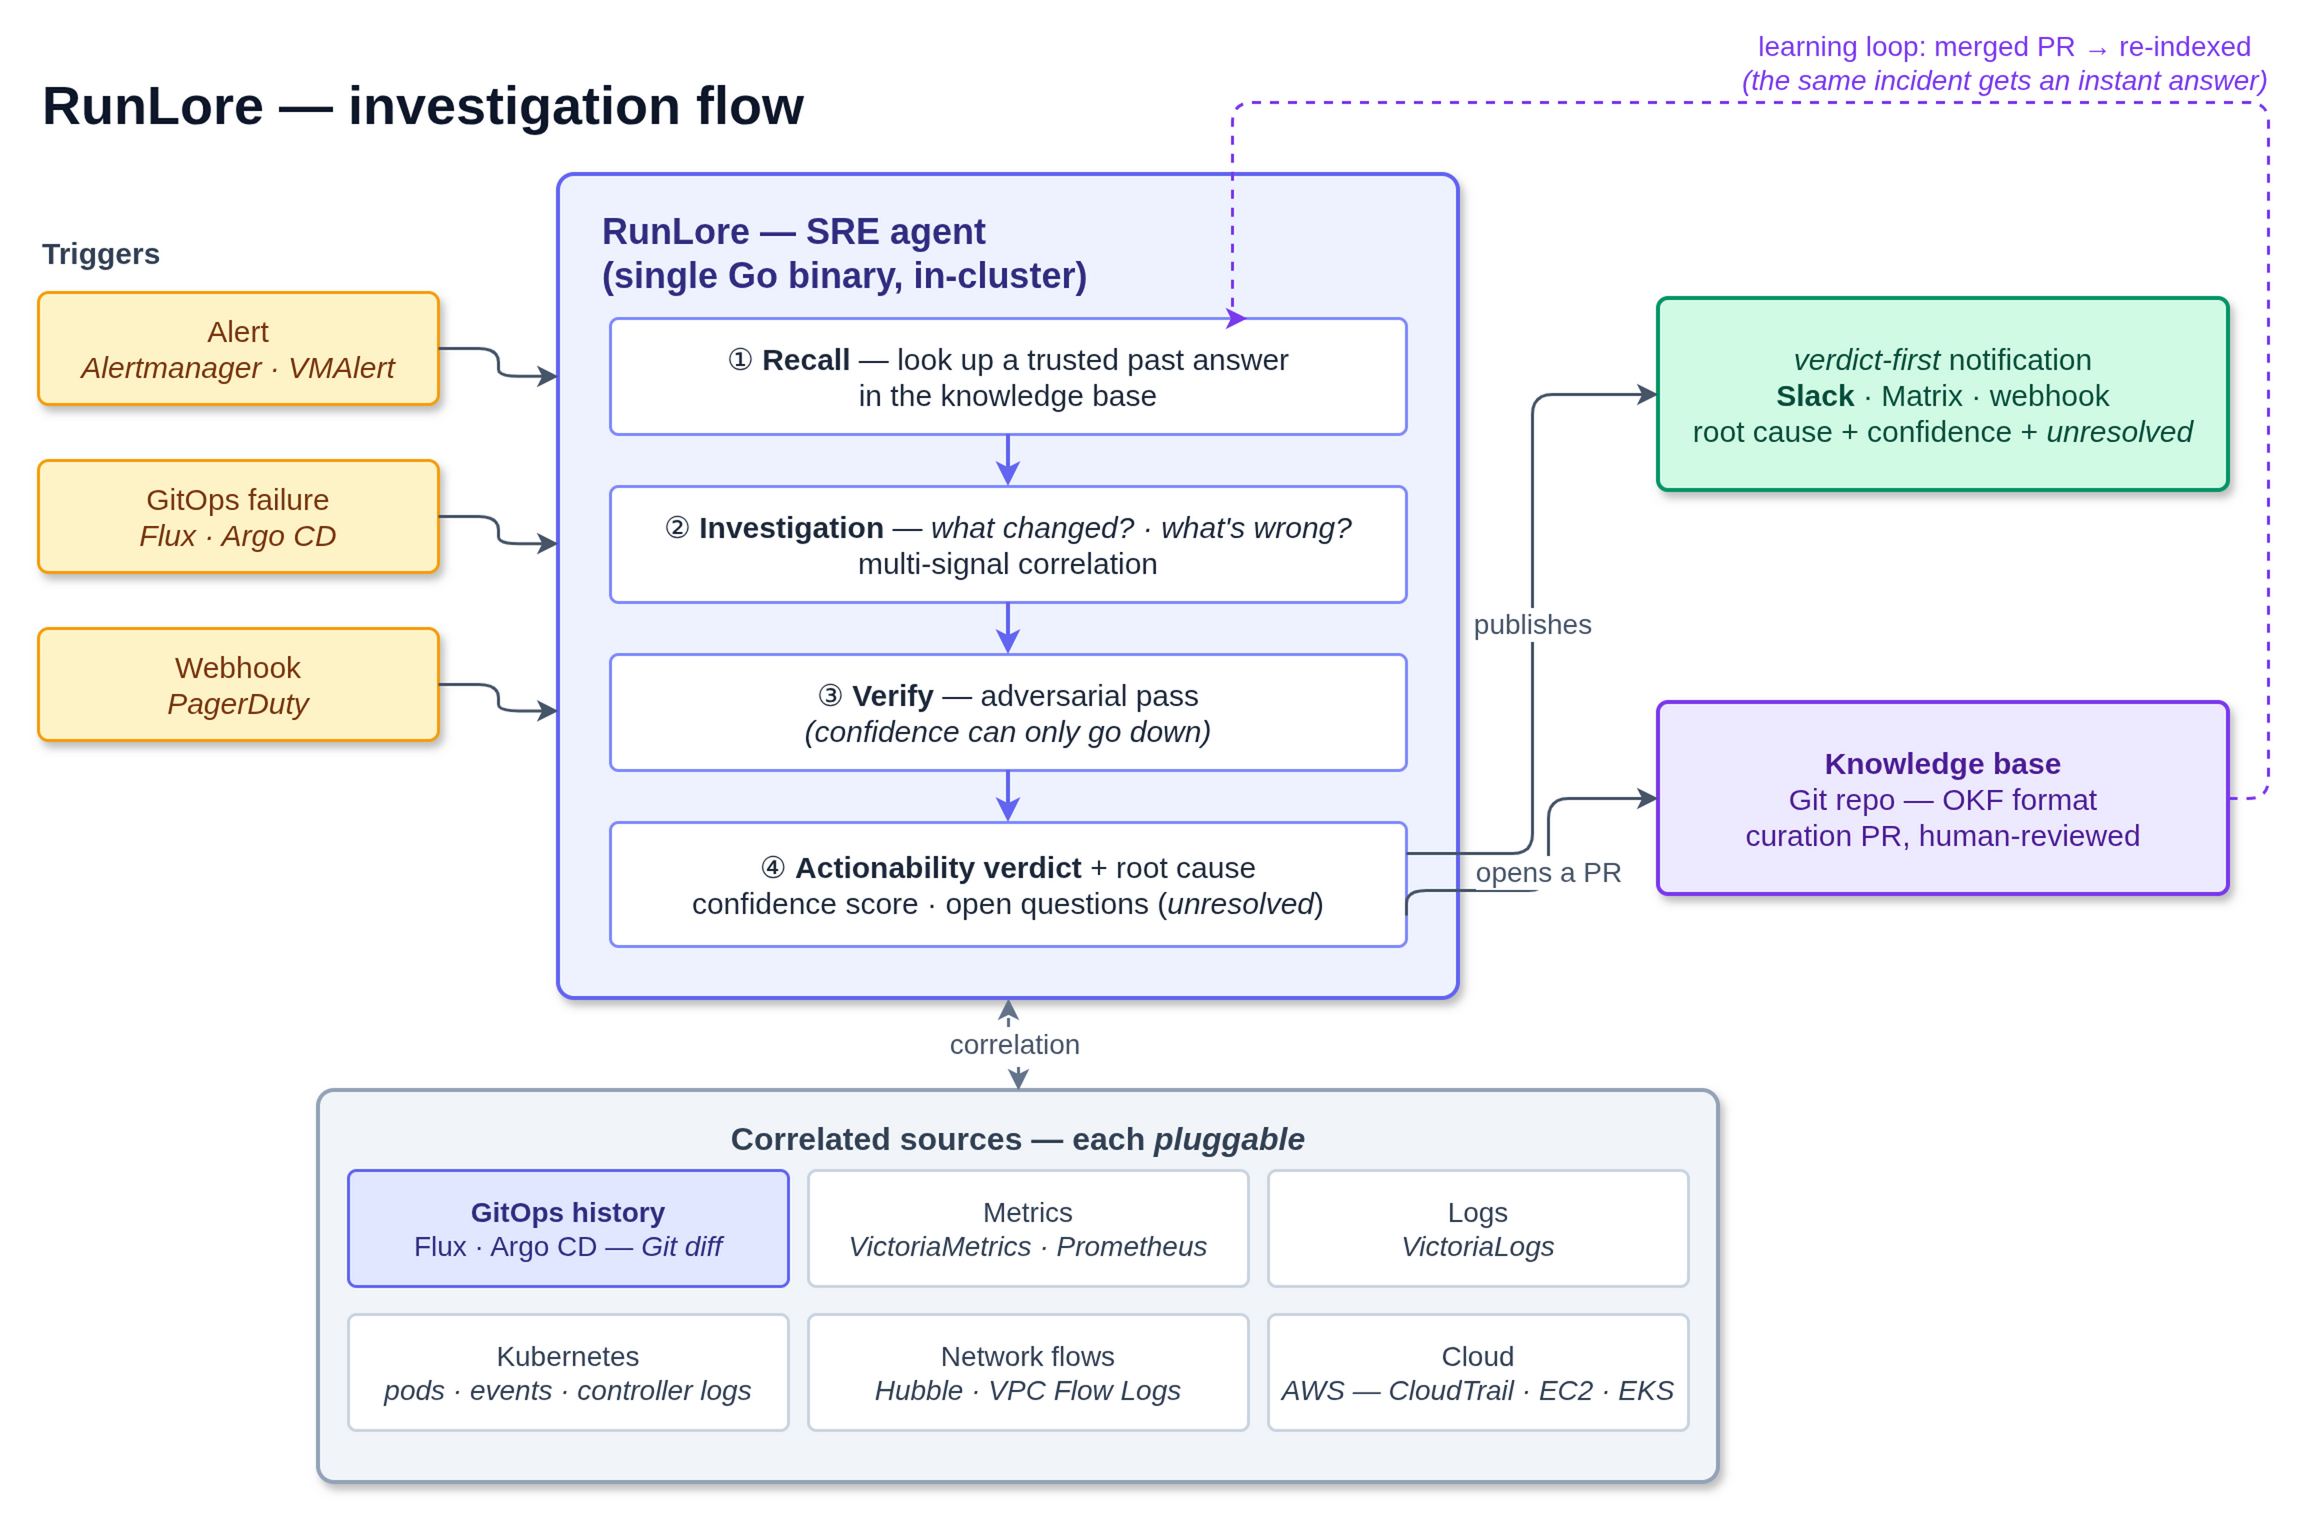
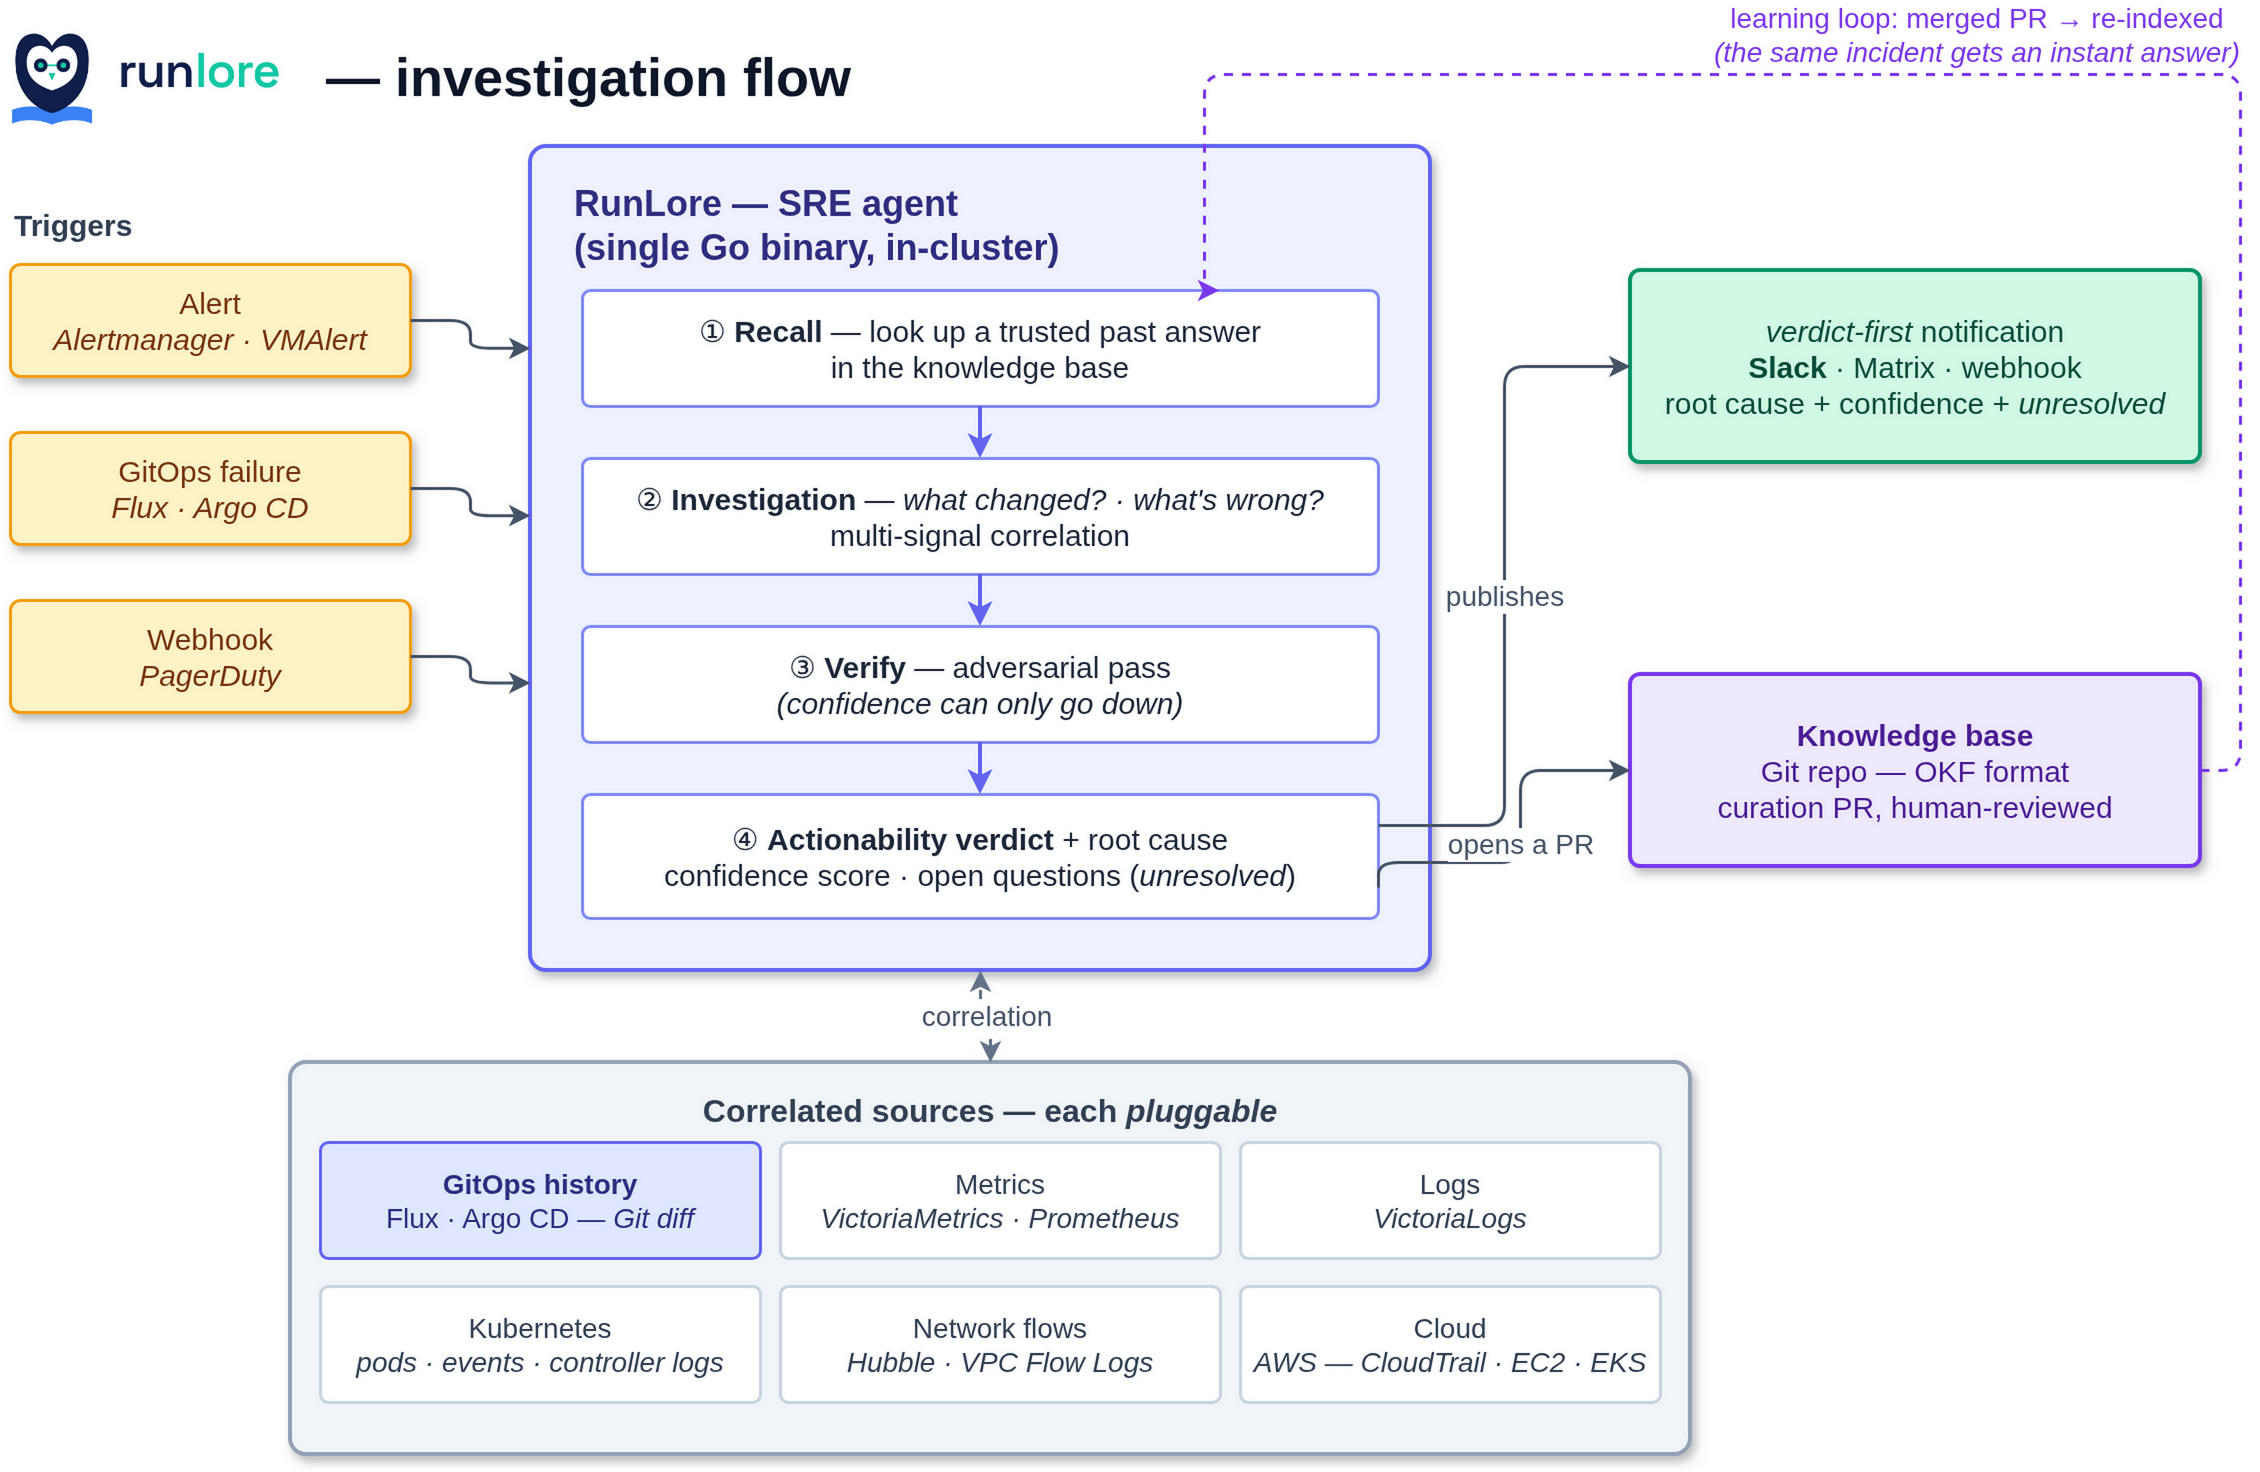
docs(blog): RunLore post — learning-loop diagram, human-in-the-loop pillar, branding, repo sync
- Add the learning-loop diagram: recall hit → instant answer vs miss → the
  four-stage loop (Retrieve/Capture/Curate/Compound) feeding the owned catalog
- Reframe the 3rd design pillar from "honesty" to human-in-the-loop, anchored on
  human-curated knowledge; keep the calibration/eval mechanisms as supporting cast
- Rewrite the 👍/👎 feedback explanation for clarity (impact + consequence)
- Brand the diagrams with the runlore wordmark in titles + logo badge in the body
- Sync claims to the current repo: model claude-sonnet-5, HolmesGPT org URL,
  feedback buttons are opt-in (Slack/Matrix), add OpenSRE to the alternatives table

diff --git a/content/fr/post/series/observability/runlore/index.md b/content/fr/post/series/observability/runlore/index.md
@@ -37,7 +37,7 @@ Cet article en présente les idées et un premier exemple concret.
 
 * 🔥 Comprendre le **coût caché** de l'investigation d'incident
 * 🤖 Découvrir **RunLore** et son fonctionnement
-* 🧠 Saisir ses **trois choix de conception** : un binaire simple, une mémoire au standard **OKF**, et l'honnêteté
+* 🧠 Saisir ses **trois choix de conception** : un binaire simple, une mémoire au standard **OKF**, et l'humain à la décision
 * 🛠️ **Déployer** RunLore et voir un **incident réel** investigué sur [`cloud-native-ref`](https://github.com/Smana/cloud-native-ref)
 * 💭 Un retour **honnête** sur un projet encore très jeune
 
@@ -54,6 +54,8 @@ Quand une alerte se déclenche, l'astreinte rejoue à chaque fois le même encha
 Ce pivot permanent entre Git, les métriques, les logs et les flux réseau est exactement le genre de tâche qu'un agent peut prendre en charge. À condition qu'il soit **honnête** sur ce qu'il sait et ne sait pas.
 
 ## 🤖 RunLore en bref
+
+{{< img src="runlore-logo.png" alt="Logo RunLore — une chouette à lunettes posée sur un livre ouvert" width="120" >}}
 
 **RunLore** est un **agent SRE** open source (licence Apache-2.0) qui s'exécute dans votre cluster Kubernetes sous la forme d'un binaire Go unique, déployé via Helm. Son principe est volontairement simple : à partir d'un événement (une alerte, un échec **GitOps** — la livraison continue pilotée par Git…), il investigue et répond à deux questions — _what changed?_ et _what's wrong?_ — puis publie dans votre messagerie une **cause racine** assortie d'un **score de confiance**, des preuves qui l'étayent, et des questions ouvertes à destination d'un humain.
 
@@ -90,9 +92,9 @@ Des agents qui investiguent un incident, il en existe déjà (nous y reviendrons
 
 1. 📦 **Un simple binaire, chez vous, sur vos modèles.** Un unique binaire Go dans votre cluster ; vos données et vos LLM ne quittent jamais votre périmètre. Pas de SaaS, pas de _lock-in_.
 2. 🧠 **Une mémoire qui se capitalise.** Chaque investigation nourrit un **catalogue de connaissances que vous possédez**, au standard **OKF**. Le même incident, la fois suivante, obtient une réponse instantanée plutôt qu'une nouvelle investigation.
-3. 🪞 **Honnête sur son incertitude.** _Read-only_ par défaut, un `unresolved` assumé comme réponse à part entière, et chaque affirmation passée au crible d'un **harnais d'évaluation**.
+3. ✋ **L'humain garde la main.** L'agent lit et recommande, il n'agit jamais seul (_read-only → suggest → approve_) — et surtout, **rien n'entre dans sa mémoire sans une PR relue par un humain**. Ce qu'il ne sait pas, il le délègue plutôt que de le deviner.
 
-Les deux sections qui suivent creusent les deux choix les moins évidents : la mémoire, puis l'honnêteté.
+Les deux sections qui suivent creusent les deux choix les moins évidents : la mémoire, puis la place gardée à l'humain.
 
 ## 🧠 Une mémoire qui se capitalise
 
@@ -107,9 +109,18 @@ RunLore implémente un cycle en quatre temps :
 3. **Curate** — un finding suffisamment fiable et nouveau devient une **Pull Request** rédigée dans votre dépôt de connaissances. C'est le **point de contrôle qualité** : on relit une entrée comme on relit du code.
 4. **Compound** — une fois la PR fusionnée, l'entrée est ré-indexée et devient immédiatement disponible. Le même incident, la prochaine fois, obtient une réponse instantanée — sans ré-investigation.
 
+Tout part donc de **Retrieve**, qui tranche entre deux issues : servir une réponse connue **instantanément**, ou — faute de correspondance fiable — lancer la boucle complète, celle qui nourrit le catalogue.
+
+{{< img src="runlore-learning-loop.png" alt="Les deux issues d'un recall dans RunLore : un hit répond instantanément sans investigation ; un miss déclenche la boucle en quatre temps — Retrieve, Capture, Curate, Compound — qui nourrit un catalogue que vous possédez et rend le même incident instantané la fois suivante" width="1080" caption="Un **hit** répond instantanément, sans investigation ; un **miss** déclenche la boucle complète — investigation, curation, PR fusionnée — qui rend le même incident instantané la fois suivante, la confiance suivant le taux de résolution constaté" >}}
+
 Ce qui fait de ce cycle un véritable **apprentissage**, et pas un simple bloc-notes, c'est que **les résultats bouclent en retour**. RunLore tient un _outcome ledger_ : à chaque fois qu'une entrée est rappelée, il note si l'incident s'est réellement résolu ensuite. La confiance d'une entrée est **dérivée de son taux de résolution constaté**, pas affirmée par le modèle. Une entrée qui résout régulièrement gagne en confiance ; une entrée qui est rappelée mais dont l'incident ne se résout jamais **se dégrade** et finit par ne plus être proposée, jusqu'à ce qu'une nouvelle investigation la corrige. La mémoire reflète ainsi la réalité opérationnelle, et non un état figé à un instant T.
 
-Les deux boutons **👍 / 👎** en pied de chaque notification (visibles sur les captures plus loin) sont l'autre moitié de ce signal. Ils ne sont pas cosmétiques : un vote est une **observation supplémentaire dans le même calcul de confiance** — un 👍 pèse comme une résolution, un 👎 comme un échec, au même poids. Ils servent deux buts. D'abord, ils sont **la seule vérité terrain là où le signal de résolution n'existe pas** : un échec GitOps, une alerte sans `send_resolved`… n'émettent jamais de « resolved », donc sans retour humain la confiance de ces entrées resterait figée à son a priori pour toujours. Ensuite, un 👎 est un **jugement sur le diagnostic lui-même** — ce qu'une alerte qui s'éteint ne prouve jamais — et un 👎 persistant **ré-arme l'investigation immédiatement** : il court-circuite le _cooldown_ de récurrence pour forcer une nouvelle analyse plutôt que de répéter une réponse contestée. Le même clic pilote donc les deux leviers : *ce que l'agent croit* (la confiance d'une entrée) et *quand il a le droit de se répéter*.
+Ce calcul a une autre moitié, **humaine** : sous chaque notification (en option, sur Slack et Matrix), deux boutons **👍 / 👎** laissent l'astreinte trancher. Le clic n'est pas cosmétique — il entre dans le **même calcul de confiance** que les résolutions réelles, au même poids :
+
+* **👍** → une observation positive : l'entrée **gagne en confiance**.
+* **👎** → une observation négative : l'entrée **perd en confiance**, et un 👎 qui persiste **relance aussitôt une investigation** plutôt que de re-servir une réponse contestée.
+
+Surtout, ces votes sont **la seule vérité terrain quand aucun signal de résolution n'arrive** : un échec GitOps ou une alerte sans `send_resolved` n'émettent jamais de « resolved » — sans retour humain, la confiance de ces entrées resterait figée. En un clic, l'humain pilote donc deux choses : **ce que l'agent croit**, et **quand il a le droit de se répéter**.
 
 ### OKF : d'une idée de Karpathy à un standard
 
@@ -131,17 +142,21 @@ Cette portabilité n'est pas théorique. Le binaire embarque un serveur **MCP** 
 git clone https://github.com/your-org/runlore-kb && lore mcp ./runlore-kb
 ```
 
-## 🪞 L'honnêteté comme fonctionnalité
+## ✋ L'humain garde la main
 
-La détection automatique de cause racine est un domaine où il est facile de produire des réponses plausibles mais fausses. RunLore fait le pari inverse : assumer ses limites plutôt que de masquer son incertitude.
+La détection automatique de cause racine est un domaine ingrat : sur des incidents réalistes, même les meilleurs modèles identifient la cause racine **moins d'une fois sur deux** — c'est le constat du benchmark [ITBench](https://github.com/itbench-hub/ITBench) (IBM, ICML 2025). Sur un tel terrain, viser l'automatisation totale est un piège.
 
-* **Read-only par défaut** — la posture supportée est _read-only → suggest → approve_. L'agent lit et recommande, un humain valide.
-* **Score de confiance** sur chaque finding, et un `unresolved` **assumé comme une réponse à part entière** : ce que l'agent n'a pas pu déterminer est listé explicitement.
-* **Passe de vérification adverse** — une passe _verify_ ne peut **que faire baisser** la confiance d'un finding, jamais l'augmenter. Le doute est structurellement favorisé.
-* **Une mémoire tenue en laisse** — la confiance d'une entrée rappelée est dérivée des résultats observés et **plafonnée à 90 %**, jamais affirmée ; et le rappel instantané est **désactivé en mode `auto`**, pour qu'une entrée erronée ne puisse jamais court-circuiter vers une remédiation non supervisée.
-* **Un harnais d'évaluation** livré avec le projet — un _eval_ nocturne et une suite end-to-end sur cluster k3d rejouent des incidents connus et vérifient que le rappel, la vérification et la décroissance se comportent comme annoncé. Les affirmations du README sont testées, pas décrétées.
+Le parti pris de RunLore est l'inverse : **l'agent n'est pas là pour remplacer l'astreinte, mais pour l'outiller — l'humain reste au point de décision**, aux deux endroits qui comptent : ce qui est *fait*, et ce qui est *appris*.
 
-C'est, je crois, la bonne attitude face à une réalité que peu d'outils admettent : sur des incidents réalistes, même les meilleurs modèles identifient la cause racine **moins d'une fois sur deux** — c'est le constat du benchmark [ITBench](https://github.com/itbench-hub/ITBench) (IBM, ICML 2025). Mieux vaut un « je ne sais pas » honnête qu'une fausse certitude.
+Encore faut-il que l'humain *comprenne* — sans quoi « valider » n'est qu'un clic. Tout est donc pensé pour être lu et jugé : des findings en **langage clair**, un savoir en **markdown** relu comme du code, des actions explicites marquées **réversibles** ou non.
+
+* **Sur les actions — read-only par défaut.** La posture supportée est _read-only → suggest → approve_ : l'agent lit, corrèle et recommande ; un humain valide. Le palier `auto` (remédiation non supervisée) est expérimental, gelé, et déconseillé sur un cluster réel.
+* **Sur la connaissance — rien n'est appris sans relecture.** C'est le point qui distingue vraiment : chaque finding jugé fiable et nouveau devient une **Pull Request** dans *votre* dépôt, qu'un humain relit et fusionne. L'agent propose ; l'équipe décide ce qui rejoint sa mémoire. _(D'autres agents apprennent aussi — mais enregistrent tout automatiquement, sans relecture.)_
+* **Ce qu'il ne sait pas, il le délègue.** Un `unresolved` **assumé comme une réponse à part entière** : l'agent liste explicitement ce qui exige un accès ou un jugement qu'il n'a pas, au lieu de combler les trous par une supposition plausible.
+* **Des signaux faits pour décider, pas pour rassurer.** Pour que la relecture humaine soit réelle et non un tampon, l'agent est calibré contre lui-même : un **score de confiance** sur chaque finding ; une passe de **vérification adverse** qui ne peut **que faire baisser** la confiance ; une mémoire **dérivée des résultats observés** et **plafonnée à 90 %**, jamais affirmée.
+* **Et c'est vérifié, pas décrété.** Un **harnais d'évaluation** livré avec le projet — un _eval_ nocturne et une suite end-to-end sur k3d — rejoue des incidents connus et contrôle que rappel, vérification et décroissance se comportent comme annoncé.
+
+Garder l'humain à la décision — sur ce qui est fait comme sur ce qui est appris — n'est pas une limite qu'on s'impose : c'est ce qui rend l'agent utilisable là où le raisonnement seul échoue une fois sur deux.
 
 ## 🔬 Les alternatives
 
@@ -150,11 +165,12 @@ RunLore n'arrive pas sur un terrain vierge : la **RCA** (_Root Cause Analysis_, 
 | Outil | Ce que c'est | Ce que RunLore ajoute |
 |---|---|---|
 | [**k8sgpt**](https://github.com/k8sgpt-ai/k8sgpt) | Un _détecteur_ (analyzers + explication par LLM) | Une boucle d'investigation, la corrélation multi-signaux, de vrais diffs Git et l'apprentissage |
-| [**HolmesGPT**](https://github.com/robusta-dev/holmesgpt) | Le meilleur agent d'investigation open source | HolmesGPT s'appuie sur **vos** runbooks écrits à la main et n'apprend pas ; RunLore est _what-changed-first_ et s'améliore seul |
+| [**HolmesGPT**](https://github.com/HolmesGPT/holmesgpt) | Le meilleur agent d'investigation open source | HolmesGPT s'appuie sur **vos** runbooks écrits à la main et n'apprend pas ; RunLore est _what-changed-first_ et s'améliore seul |
+| [**OpenSRE**](https://github.com/swapnildahiphale/OpenSRE) | Le rival le plus proche : un agent multi-agents qui **apprend** réellement (mémoire épisodique + graphe de connaissances des incidents passés) | OpenSRE stocke chaque investigation **automatiquement, sans relecture** ; RunLore capitalise dans un catalogue **relu par PR, dont vous êtes propriétaire, et dont la confiance décroît selon les résultats réels** |
 | [**kagent**](https://github.com/kagent-dev/kagent) | Un _framework_ d'agents in-cluster générique | Un agent SRE focalisé et opinionated (RunLore pourrait tourner _sur_ kagent) |
 | **Komodor · Anyshift** (commerciaux) | RCA orientée changement, propriétaire | Le même signal, mais alimentant un catalogue **ouvert et portable** |
 
-Soyons lucides : la **RCA orientée changement n'a rien d'unique** — des outils commerciaux calculent des diffs de changements depuis longtemps. Le vrai espace que RunLore occupe, c'est la **combinaison** que les outils ouverts n'ont pas : ce signal alimentant un **catalogue ouvert, portable et relu**, opéré par un agent **honnête sur sa propre incertitude**.
+Soyons lucides : la **RCA orientée changement n'a rien d'unique** — des outils commerciaux calculent des diffs de changements depuis longtemps. Le vrai espace que RunLore occupe, c'est la **combinaison** que les outils ouverts n'ont pas : ce signal alimentant un **catalogue ouvert, portable et relu**, opéré par un agent qui **garde l'humain à la décision**.
 
 ## 🛠️ En pratique : de l'installation à un incident réel
 
@@ -173,7 +189,7 @@ config:
     alertmanager: {}              # active le webhook Alertmanager/VMAlert
   model:
     provider: anthropic
-    model: claude-sonnet-4-6
+    model: claude-sonnet-5
     api_key_env: ANTHROPIC_API_KEY
   metrics:
     url: http://vmsingle.observability.svc:8429
@@ -249,7 +265,7 @@ fingerprint: 2d6bd8279304b3e17a5d5e35a55fb0c115ffbeabde820af8cdd2494a4141a60b
 - Which of the two existing access keys is safe to delete.
 ```
 
-La section `Unresolved` illustre au passage la posture d'honnêteté : l'agent délègue à l'humain ce qui exige un accès ou un jugement qu'il n'a pas — ici, *quelle* clé d'accès supprimer parmi les deux.
+La section `Unresolved` illustre au passage ce principe : l'agent délègue à l'humain ce qui exige un accès ou un jugement qu'il n'a pas — ici, *quelle* clé d'accès supprimer parmi les deux.
 
 ### ⚡ La récurrence : une réponse instantanée
 
@@ -295,4 +311,4 @@ La posture supportée est **read-only → suggest → approve** : RunLore lit, c
 * [Le pattern _LLM-wiki_ d'Andrej Karpathy](https://gist.github.com/karpathy/442a6bf555914893e9891c11519de94f)
 * [ITBench — benchmark d'agents SRE (IBM)](https://github.com/itbench-hub/ITBench)
 * [cloud-native-ref — plateforme de référence](https://github.com/Smana/cloud-native-ref)
-* [k8sgpt](https://github.com/k8sgpt-ai/k8sgpt) · [HolmesGPT](https://github.com/robusta-dev/holmesgpt) · [kagent](https://github.com/kagent-dev/kagent)
+* [k8sgpt](https://github.com/k8sgpt-ai/k8sgpt) · [HolmesGPT](https://github.com/HolmesGPT/holmesgpt) · [kagent](https://github.com/kagent-dev/kagent)